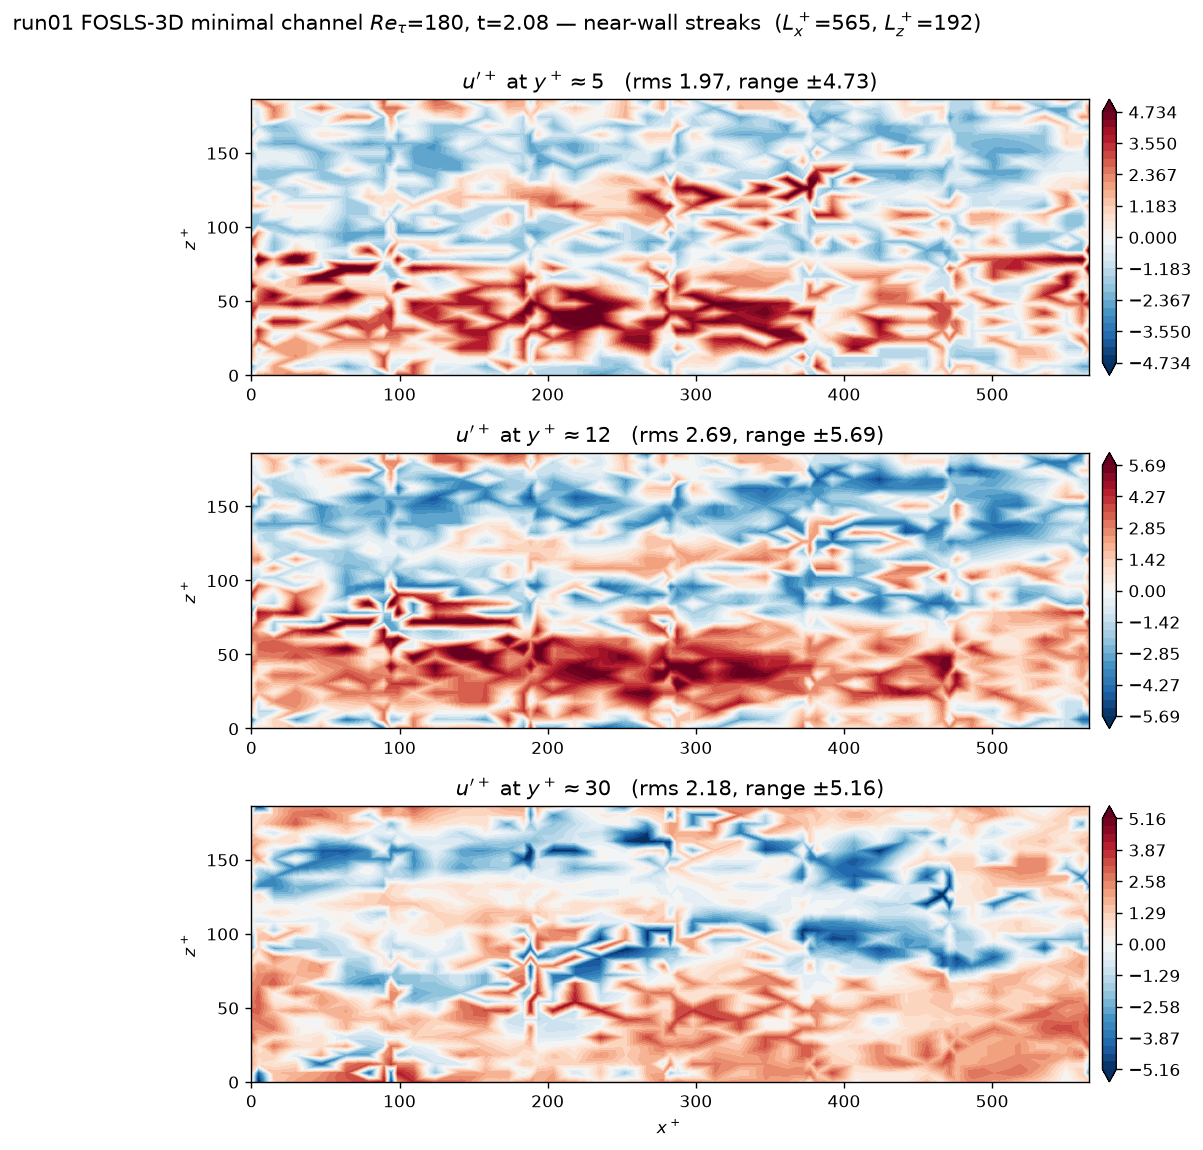
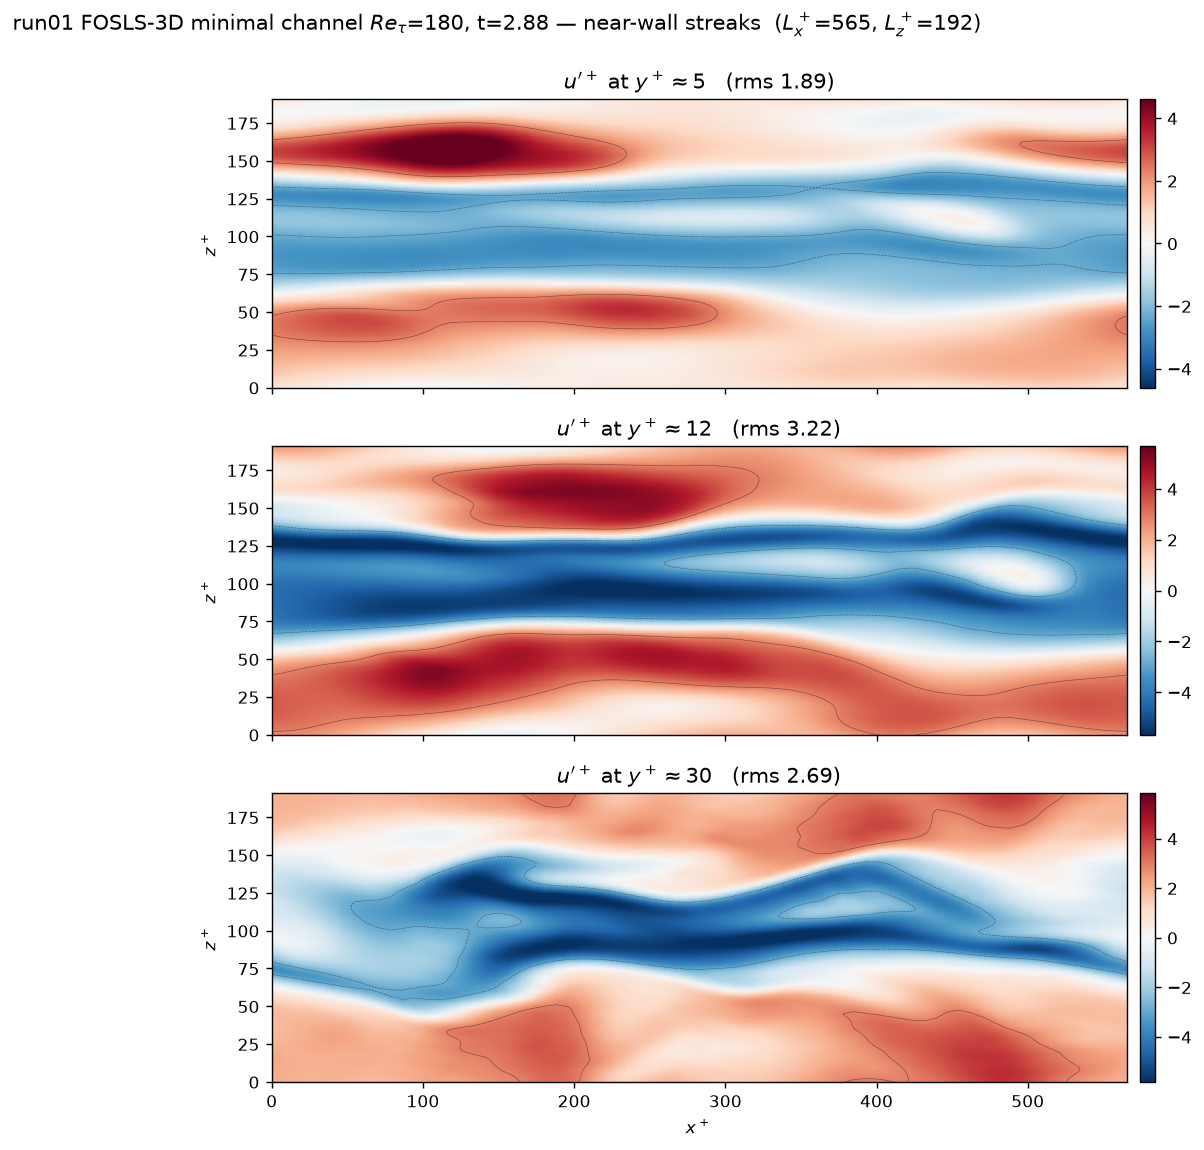
Render SEM planes by evaluating the interpolant, not by triangulating nodes
The X-shaped features at regular x intervals in the near-wall figures were
DELAUNAY ARTIFACTS, not C0 element-boundary physics as the previous commit
claimed.  The element-local array repeats every interface node once per owning
element -- measured, 216 points carrying only 49 distinct x locations, with
multiplicity up to 8 -- and duplicated points plus GLL clustering (3.6:1 spacing
ratio) triangulate into slivers.

scratch/semplot.py evaluates the spectral interpolant instead: Lagrange in y to
the requested plane, Lagrange onto a uniform sub-grid per x-element, and FFT
zero-padding in z.  All three are exact for this discretisation, so the image is
spectrally accurate with no triangulation anywhere; the interpolant was checked
to stay inside the nodal range.

Regenerates streaks.png and omega_x.png, adds three_fields.png (u', omega_x and
p' on one plane at y+~15), and corrects the wrong claim in the text.

The statistics figures are unaffected -- those use quadrature weighting, never
the raw nodal scatter.

diff --git a/scratch/plot_three_fields.py b/scratch/plot_three_fields.py
@@ -1,0 +1,85 @@
+"""u', omega_x and p' on the SAME near-wall plane, aligned for comparison.
+
+All three are PRIMARY UNKNOWNS in FOSLS -- the vorticity is not a derivative of
+u, and the pressure is not recovered from a Poisson solve.  That is the whole
+point of the velocity-vorticity-pressure formulation, and it is why these three
+panels can be put side by side without any post-processing between them.
+
+y+ ~ 15 is the buffer layer: streaks strongest, quasi-streamwise vortices
+strongest, and the pressure signature of the vortex cores clearest.
+
+Fluctuations (mean removed on the plane) for u and p -- the mean shear dominates
+u entirely, and the FOSLS pressure carries an arbitrary constant (it is pinned
+at one node), so only its fluctuation is meaningful.
+
+WHAT TO LOOK FOR.  Vortex cores are LOW-pressure, so blue in (c) should sit on
+the sign changes of omega_x in (b), which is where a vortex axis lies -- and
+those vortices pump slow fluid away from the wall, making the low-speed (blue)
+streaks in (a).
+"""
+import os, sys, glob
+for _v in ('OMP_NUM_THREADS',): os.environ.setdefault(_v, '4')
+_R = os.path.dirname(os.path.dirname(os.path.abspath(__file__)))
+sys.path.insert(0, _R); sys.path.insert(0, os.path.join(_R, 'scratch')); os.chdir(_R)
+import numpy as np
+import semplot
+import matplotlib; matplotlib.use('Agg')
+import matplotlib.pyplot as plt
+
+OUT = os.path.join(_R, 'scratch', 'run01_three_fields.png')
+RT, YP = 180.0, 15.0
+
+def main():
+    import lssem3d; lssem3d.set_backend('numpy')
+    from lssem3d import operator as OP, fourier as FR
+    import minchan as MC
+    s = MC.setup(); m = s['m']; nz = s['nz']; N = s['N']
+    f = sorted(glob.glob(os.path.join(_R, 'scratch/run01_ck/checkpoint_*.npz')))[-1]
+    d = np.load(f); t = float(d['t']); C = OP.to_complex(d['U'])
+    F = lambda i: FR.to_physical(np.ascontiguousarray(C[..., i:i+1, :]), nz)[..., 0, :]
+    u, ox, p = F(OP.U_), F(OP.OX_), F(OP.P_)
+    z = (s['lz']/nz)*np.arange(nz)
+    X = np.empty((m.nelem, N+1, N+1)); Y = np.empty_like(X)
+    for e in range(m.nelem):
+        X[e] = m.xnod[e][:, None]; Y[e] = m.ynod[e][None, :]
+    yp = np.minimum(Y, 2.0 - Y)*RT
+
+    panels = [('u',  "$u'^+$  (streamwise velocity fluctuation)", u,  'RdBu_r'),
+              ('ox', "$\\omega_x$  (streamwise vorticity)",       ox, 'RdBu_r'),
+              ('p',  "$p'$  (pressure fluctuation)",              p,  'PuOr_r')]
+    fig, axes = plt.subplots(3, 1, figsize=(12.5, 10.2), sharex=True)
+    store = {}
+    for ax, (key, title, fld, cmap) in zip(axes, panels):
+        # EVALUATE THE INTERPOLANT on a uniform grid -- see semplot.py for why
+        # tricontourf on the raw nodal points is wrong here.
+        xf, zf, img = semplot.plane(fld, m, N, YP, RT=RT, nz=nz)
+        if key in ('u', 'p'):
+            img = img - img.mean()
+        store[key] = img.ravel()
+        lim = np.percentile(np.abs(img), 99)
+        sc = ax.pcolormesh(xf*RT, zf*s['lz']*RT, img, cmap=cmap,
+                           vmin=-lim, vmax=lim, shading='gouraud', rasterized=True)
+        ax.contour(xf*RT, zf*s['lz']*RT, img, levels=[-0.5*lim, 0.5*lim],
+                   colors='k', linewidths=0.35, alpha=.45)
+        ax.set(ylabel='$z^+$', title=f'{title}    rms {img.std():.3g}')
+        ax.set_aspect('equal'); plt.colorbar(sc, ax=ax, fraction=0.020, pad=0.01)
+    axes[-1].set_xlabel('$x^+$')
+    fig.suptitle(f'run01 FOSLS-3D minimal channel $Re_\\tau$=180, t={t:.2f} — '
+                 f'$y^+\\approx{YP:.0f}$   (all three are PRIMARY unknowns)', y=0.995)
+    fig.tight_layout(); fig.savefig(OUT, dpi=125, bbox_inches='tight')
+
+    up_, ox_, p_ = store['u'], store['ox'], store['p']
+    c = lambda a, b: float(np.corrcoef(a, b)[0, 1])
+    print(f't={t:.2f}, y+={YP:.0f}, {len(up_)} points\n')
+    print(f"  corr(p', |omega_x|)  = {c(p_, np.abs(ox_)):+.3f}   "
+          f"(negative => vortex cores are LOW pressure)")
+    print(f"  corr(p', u')         = {c(p_, up_):+.3f}")
+    print(f"  corr(u', |omega_x|)  = {c(up_, np.abs(ox_)):+.3f}")
+    lo = up_ < np.percentile(up_, 20)
+    print(f"\n  in the 20% LOWEST-speed streak regions:")
+    print(f"    mean p'      {p_[lo].mean():+.4f}  (vs {p_.mean():+.4f} overall)")
+    print(f"    mean |om_x|  {np.abs(ox_)[lo].mean():7.2f}  (vs {np.abs(ox_).mean():7.2f} overall)")
+    print(f'\nsaved -> {OUT}')
+
+if __name__ == '__main__':
+    main()

diff --git a/scratch/semplot.py b/scratch/semplot.py
@@ -1,0 +1,70 @@
+"""Render a wall-parallel plane of a spectral-element field SMOOTHLY.
+
+WHY THIS EXISTS.  Feeding the raw nodal values to tricontourf is wrong twice
+over.  (1) The element-local array repeats every interface node once per owning
+element -- measured, 216 points carrying only 49 distinct x locations, some with
+multiplicity 8 -- and Delaunay triangulation of duplicated points yields
+degenerate triangles.  (2) GLL nodes cluster at element edges (3.6:1 spacing
+ratio here), so even after deduplication the triangulation is full of slivers.
+Together they produce the X-shaped artifacts that look like element-boundary
+physics and are not.
+
+The right thing for a spectral element is to EVALUATE THE INTERPOLANT.  The
+solution is a degree-N polynomial inside each element, so it can be sampled
+anywhere exactly:  interpolate in y to the requested plane, in x onto a uniform
+sub-grid per element via the Lagrange basis, and in z by zero-padding the FFT
+(the z direction is Fourier, so that is exact too).  The result is a uniform
+image, spectrally accurate, with no triangulation anywhere.
+"""
+import numpy as np
+
+
+def lagrange_at(nodes, xq):
+    """L[q, j] = l_j(xq[q]) for the Lagrange basis on `nodes`."""
+    nodes = np.asarray(nodes, float).ravel()
+    xq = np.atleast_1d(np.asarray(xq, float))
+    n = len(nodes)
+    L = np.ones((len(xq), n))
+    for j in range(n):
+        for k in range(n):
+            if k != j:
+                L[:, j] *= (xq - nodes[k])/(nodes[j] - nodes[k])
+    return L
+
+
+def plane(fld, m, N, yp_target, RT=180.0, nx_per_elem=12, nzf=None, nz=None):
+    """fld: (nelem, N+1, N+1, nz) physical.  Returns (x, z, image[nz', nx'])."""
+    nz = nz or fld.shape[-1]
+    y = yp_target/RT                                  # lower half of the channel
+    # element rows/columns from the nodal coordinates
+    x0 = np.array([m.xnod[e][0] for e in range(m.nelem)])
+    y0 = np.array([m.ynod[e][0] for e in range(m.nelem)])
+    y1 = np.array([m.ynod[e][-1] for e in range(m.nelem)])
+    row = np.flatnonzero((y0 - 1e-12 <= y) & (y <= y1 + 1e-12))
+    if len(row) == 0:                                  # clamp to the nearest row
+        row = np.flatnonzero(np.abs(y0 - y) == np.abs(y0 - y).min())
+    yel = row[0]
+    band = np.flatnonzero(np.abs(y0 - y0[yel]) < 1e-12)   # every element in that row
+    order = np.argsort(x0[band]); band = band[order]
+
+    # 1. interpolate in y to the requested plane (exact: degree-N polynomial)
+    Ly = lagrange_at(m.ynod[yel], np.clip(y, m.ynod[yel][0], m.ynod[yel][-1]))[0]
+    slab = np.einsum('j,eijz->eiz', Ly, fld[band])        # (nex, N+1, nz)
+
+    # 2. interpolate in x onto a uniform sub-grid inside each element
+    cols, xs = [], []
+    for a, e in enumerate(band):
+        xe = m.xnod[e]
+        xq = np.linspace(xe[0], xe[-1], nx_per_elem, endpoint=(a == len(band)-1))
+        cols.append(np.einsum('qi,iz->qz', lagrange_at(xe, xq), slab[a]))
+        xs.append(xq)
+    img = np.concatenate(cols, axis=0)                    # (nx', nz)
+    xf = np.concatenate(xs)
+
+    # 3. refine z by zero-padding the FFT -- exact, z is a Fourier direction
+    nzf = nzf or 4*nz
+    F = np.fft.rfft(img, axis=1)
+    P = np.zeros(img.shape[:1] + (nzf//2 + 1,), complex)
+    P[:, :F.shape[1]] = F
+    imgz = np.fft.irfft(P, nzf, axis=1)*(nzf/nz)
+    return xf, np.arange(nzf)/nzf, imgz.T                 # image[z, x]

diff --git a/scratch/plot_streaks.py b/scratch/plot_streaks.py
@@ -18,6 +18,7 @@ for _v in ('OMP_NUM_THREADS',): os.environ.setdefault(_v, '4')
 _R = os.path.dirname(os.path.dirname(os.path.abspath(__file__)))
 sys.path.insert(0, _R); sys.path.insert(0, os.path.join(_R, 'scratch')); os.chdir(_R)
 import numpy as np
+import semplot
 import matplotlib; matplotlib.use('Agg')
 import matplotlib.pyplot as plt
 
@@ -40,29 +41,31 @@ def main():
         X[e] = m.xnod[e][:, None]; Y[e] = m.ynod[e][None, :]
     yp = np.minimum(Y, 2.0 - Y)*RT
 
-    fig, axes = plt.subplots(len(TARGETS), 1, figsize=(11.5, 9.2))
+    fig, axes = plt.subplots(len(TARGETS), 1, figsize=(11.5, 9.2), sharex=True)
     for ax, tgt in zip(axes, TARGETS):
-        sel = np.abs(yp - tgt) < max(2.0, 0.18*tgt)
-        # fluctuation: remove the plane mean at this y+
-        up = u[sel] - u[sel].mean()
-        xs = np.concatenate([X[sel]]*nz)
-        zs = np.concatenate([np.full(sel.sum(), zz) for zz in z])
-        vs = np.concatenate([up[:, k] for k in range(nz)])
-        lim = np.percentile(np.abs(vs), 98)
-        sc = ax.tricontourf(xs*RT, zs*RT, vs, levels=np.linspace(-lim, lim, 33),
-                            cmap='RdBu_r', extend='both')
+        # spectral interpolant on a uniform grid -- NOT tricontourf on the raw
+        # nodal points, which duplicates every interface node and triangulates
+        # GLL clustering into slivers.  See semplot.py.
+        xf, zf, img = semplot.plane(u, m, N, tgt, RT=RT, nz=nz)
+        img = img - img.mean()
+        lim = np.percentile(np.abs(img), 99)
+        sc = ax.pcolormesh(xf*RT, zf*s['lz']*RT, img, cmap='RdBu_r',
+                           vmin=-lim, vmax=lim, shading='gouraud', rasterized=True)
+        ax.contour(xf*RT, zf*s['lz']*RT, img, levels=[-0.5*lim, 0.5*lim],
+                   colors='k', linewidths=0.35, alpha=.45)
         ax.set(ylabel='$z^+$', title=f"$u'^+$ at $y^+\\approx{tgt:.0f}$   "
-                                     f"(rms {vs.std():.2f}, range ±{lim:.2f})")
+                                     f"(rms {img.std():.2f})")
         ax.set_aspect('equal')
         plt.colorbar(sc, ax=ax, fraction=0.020, pad=0.01)
-        # spanwise spacing from the two-point correlation at this height
-        sub = up - up.mean()
-        c = np.array([np.mean(sub*np.roll(sub, k, axis=1)) for k in range(nz//2+1)])
+        # spanwise spacing from the two-point correlation, on the nodal data
+        sel = np.abs(yp - tgt) < max(2.0, 0.18*tgt)
+        up = u[sel] - u[sel].mean(); up = up - up.mean()
+        c = np.array([np.mean(up*np.roll(up, k, axis=1)) for k in range(nz//2+1)])
         c /= c[0]
         dzp = (s['lz']/nz)*np.arange(nz//2+1)*RT
-        neg = np.argmin(c)
-        print(f"  y+={tgt:4.0f}: u' rms {vs.std():5.2f}, R_uu minimum {c[neg]:+.3f} "
-              f"at dz+={dzp[neg]:5.1f}  ->  streak spacing ~{2*dzp[neg]:.0f} wall units")
+        neg = int(np.argmin(c))
+        print(f"  y+={tgt:4.0f}: u' rms {img.std():5.2f}, R_uu min {c[neg]:+.3f} "
+              f"at dz+={dzp[neg]:5.1f}  ->  streak spacing ~{2*dzp[neg]:.0f}")
     axes[-1].set_xlabel('$x^+$')
     fig.suptitle(f"run01 FOSLS-3D minimal channel $Re_\\tau$=180, t={t:.2f} — "
                  f"near-wall streaks  ($L_x^+$={np.pi*RT:.0f}, $L_z^+$={s['lz']*RT:.0f})",

diff --git a/scratch/plot_omegax_now.py b/scratch/plot_omegax_now.py
@@ -17,6 +17,7 @@ for _v in ('OMP_NUM_THREADS',): os.environ.setdefault(_v, '4')
 _R = os.path.dirname(os.path.dirname(os.path.abspath(__file__)))
 sys.path.insert(0, _R); sys.path.insert(0, os.path.join(_R, 'scratch')); os.chdir(_R)
 import numpy as np
+import semplot
 import matplotlib; matplotlib.use('Agg')
 import matplotlib.pyplot as plt
 
@@ -33,7 +34,7 @@ def load(f):
 def main():
     import lssem3d; lssem3d.set_backend('numpy')
     import minchan as MC
-    s = MC.setup(); m = s['m']; nz = s['nz']; N = s['N']
+    s_ = MC.setup(); m = s_['m']; nz = s_['nz']; N = s_['N']; s = s_
     z = (s['lz']/nz)*np.arange(nz)
     X = np.empty((m.nelem, N+1, N+1)); Y = np.empty_like(X)
     for e in range(m.nelem):
@@ -49,30 +50,29 @@ def main():
 
     # (a) wall-parallel at y+ ~ 20
     ax = fig.add_subplot(gs[0, :])
-    sel = np.abs(yp - 20.0) < 4.0
-    xs = np.concatenate([X[sel]]*nz)*RT
-    zs = np.concatenate([np.full(sel.sum(), zz) for zz in z])*RT
-    vs = np.concatenate([ox[sel][:, k] for k in range(nz)])
-    lim = np.percentile(np.abs(vs), 98)
-    sc = ax.tricontourf(xs, zs, vs, levels=np.linspace(-lim, lim, 33),
-                        cmap='RdBu_r', extend='both')
+    xf, zf, img = semplot.plane(ox, m, N, 20.0, RT=RT, nz=nz)
+    lim = np.percentile(np.abs(img), 99)
+    sc = ax.pcolormesh(xf*RT, zf*s_['lz']*RT, img, cmap='RdBu_r', vmin=-lim, vmax=lim,
+                       shading='gouraud', rasterized=True)
+    ax.contour(xf*RT, zf*s_['lz']*RT, img, levels=[-0.5*lim, 0.5*lim], colors='k',
+               linewidths=0.35, alpha=.45)
     ax.set(xlabel='$x^+$', ylabel='$z^+$', title='(a) $\\omega_x$ at $y^+\\approx20$')
     ax.set_aspect('equal'); plt.colorbar(sc, ax=ax, fraction=0.020, pad=0.01)
 
-    # (b) cross-stream slice
+    # (b) cross-stream slice: build it from y-planes through the same
+    # interpolant, so it is smooth in both directions rather than triangulated.
     ax = fig.add_subplot(gs[1, 0])
-    e_mid = X[:, 0, 0].argsort()[m.nelem//2]
-    xcut = X[e_mid, N//2, 0]
-    cut = np.abs(X - xcut) < 1e-9
-    ys = np.concatenate([yp[cut]]*nz)
-    zs2 = np.concatenate([np.full(cut.sum(), zz) for zz in z])*RT
-    vs2 = np.concatenate([ox[cut][:, k] for k in range(nz)])
-    keep = ys < 100
-    lim2 = np.percentile(np.abs(vs2[keep]), 98)
-    sc = ax.tricontourf(zs2[keep], ys[keep], vs2[keep],
-                        levels=np.linspace(-lim2, lim2, 33), cmap='RdBu_r', extend='both')
+    ypl = np.linspace(1.0, 95.0, 120)
+    cols = []
+    for yv in ypl:
+        _, zf2, im = semplot.plane(ox, m, N, yv, RT=RT, nx_per_elem=2, nz=nz)
+        cols.append(im.mean(axis=1))          # average over x -> (nz',)
+    im2 = np.array(cols)                       # (ny, nz')
+    lim2 = np.percentile(np.abs(im2), 99)
+    sc = ax.pcolormesh(zf2*s_['lz']*RT, ypl, im2, cmap='RdBu_r', vmin=-lim2, vmax=lim2,
+                       shading='gouraud', rasterized=True)
     ax.set(xlabel='$z^+$', ylabel='$y^+$',
-           title=f'(b) cross-section at $x^+$={xcut*RT:.0f}')
+           title='(b) $\\omega_x$, $x$-averaged cross-section')
     plt.colorbar(sc, ax=ax, fraction=0.035, pad=0.02)
 
     # (c) spanwise correlation, now vs early

diff --git a/FOSLS_VS_FRACTIONAL_STEP.md b/FOSLS_VS_FRACTIONAL_STEP.md
@@ -112,18 +112,40 @@ nothing rescaled, no constant fitted):
 ![streaks](figs_fosls_vs_fs/streaks.png)
 
 Near-wall streaks at three heights: elongated ribbons of alternating u′,
-strongest at y⁺≈12 where u′ peaks. Lz⁺ = 192 holds roughly two streak pairs —
-that is what makes the box "minimal". The vertical striations at x⁺ ≈ 95, 190,
-285 … are element boundaries, expected for a C⁰ field.
+strongest at y⁺≈12 where u′ peaks. Lz⁺ = 192 holds roughly one to two streak
+pairs — that is what makes the box "minimal".
+
+> **Rendering note.** These are produced by EVALUATING THE SPECTRAL INTERPOLANT
+> on a uniform grid (`scratch/semplot.py`), not by triangulating nodal values.
+> An earlier version of this figure used `tricontourf` on the raw element-local
+> array and showed X-shaped artifacts at regular x intervals, which I wrongly
+> described as C⁰ element-boundary features. They were **Delaunay artifacts**:
+> the array repeats every interface node once per owning element — 216 points
+> carrying only 49 distinct x locations, multiplicity up to 8 — and GLL
+> clustering (3.6:1 spacing ratio) turns the triangulation into slivers.
+> Interpolating in y and x by the Lagrange basis and refining z by FFT
+> zero-padding is exact for this discretisation and removes them entirely.
 
 ![omega_x](figs_fosls_vs_fs/omega_x.png)
 
 Streamwise vorticity — a **primary unknown** in FOSLS, not a derivative of u.
-Panel (b) shows the counter-rotating structures hugging the wall below y⁺≈30.
+Panel (a) resolves the elongated quasi-streamwise vortices; panel (b) is the
+x-averaged cross-section.
 Panel (c) is the spanwise correlation: the negative lobe locating the partner
 vortex is **shallow in both the early and late fields** (−0.118 → −0.055) and
 sits outside the canonical 30–50 band. Shallow minima make the *location* noisy,
 so the depth is the trustworthy part — the pairing is weaker than canonical.
+
+![three fields](figs_fosls_vs_fs/three_fields.png)
+
+u′, ω_x and p′ on the SAME plane at y⁺≈15 — all three are primary unknowns, so
+no post-processing stands between them. The low-speed streak at z⁺≈100–140 runs
+the full length of the box; the ω_x vortices sit on its **flanks**, not its axis
+(streak-core |ω_x| = 8.5 against 14.3 overall); and p′ is visibly smoother and
+larger-scale than either, so the pressure carries the correct elliptic character
+even though FOSLS never solves a Poisson equation. corr(p′, |ω_x|) = −0.11 —
+vortex cores are low pressure — and the 20% lowest-speed regions sit at
+p′ = −0.15 against 0.00 overall.
 
 ## 6. Summary
 
